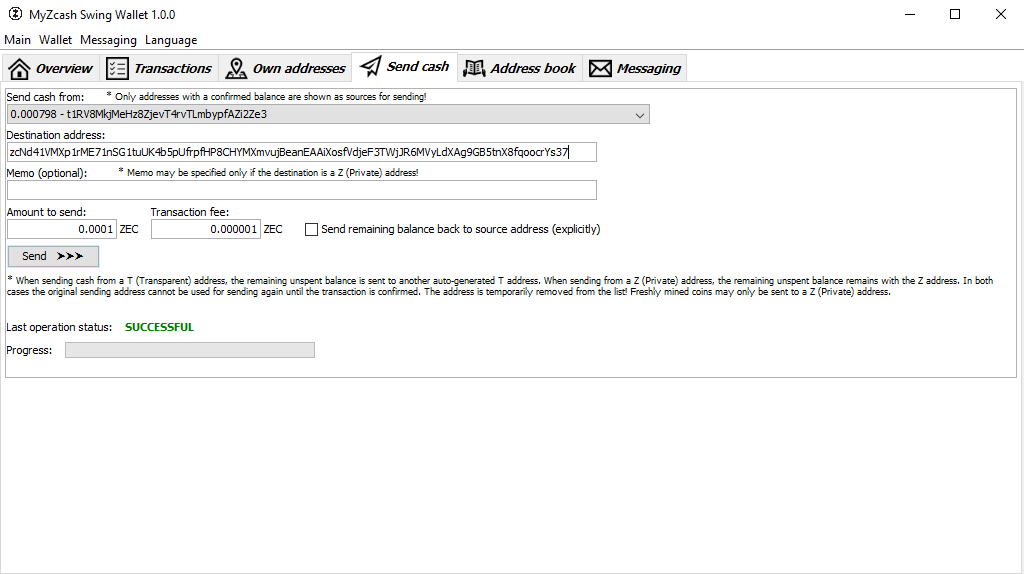
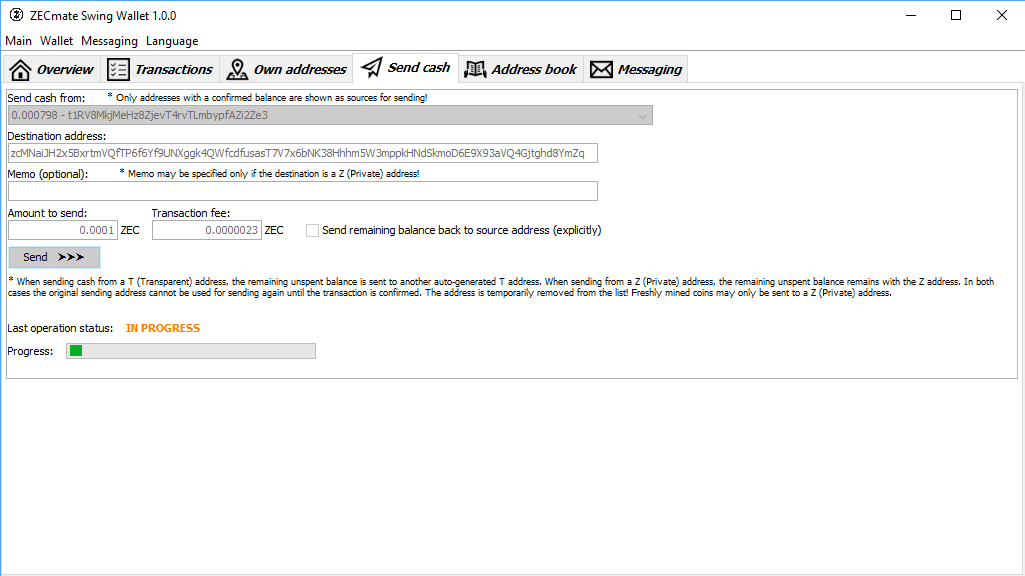
ZECmate

Changed region(s): [[0.0, 0.0, 1.0, 0.6516], [0.9688, 0.0, 1.0, 0.0296], [0.0, 0.9774, 0.0312, 1.0]]

diff --git a/index.html b/index.html
@@ -7,7 +7,7 @@
   <link href="https://fonts.googleapis.com/css?family=Heebo:100,300,400,500,700" rel="stylesheet">
   <link rel="stylesheet" href="css/tachyons.min.css">
   <link rel="stylesheet" href="css/style.css?v=3">
-  <title>MyZcash Swing Wallet — maintained by Zel Technologies GmbH</title>
+  <title>ZECmate Swing Wallet — maintained by Zel Technologies GmbH</title>
 
   <!-- Global site tag (gtag.js) - Google Analytics -->
   <script async src="https://www.googletagmanager.com/gtag/js?id=UA-120023197-2"></script>
@@ -26,7 +26,7 @@
 
   <header class="fixed bg-black-60 w-100 center tc pa4 dn db-ns z-1">
     <a href="/" class="link v-mid mr3 mr6-l absolute top-1 left-2 mt2 z-2 dn db-l">
-      <img src="img/zcash-logo.png" style="height:45px">
+      <img src="img/zecmate-logo.png" style="height:45px">
     </a>
     <a href="/#about" class="link dib f7 f6-l mr3 mr4-l white-50 hover-white-90 ttu tracked-mega fw3">About</a>
     <a href="/downloads" class="link dib f7 f6-l mr3 mr4-l white-50 hover-white-90 ttu tracked-mega fw3">Downloads</a>
@@ -35,8 +35,8 @@
 
   <div class="vh-100 w-100 white">
     <div class="w-100 pt6 pa3 mw6 center tc">
-      <img src="img/zcash-logo.png" class="w-60">
-      <h3 class="fw3 f5 tracked-mega ttu white-70 mt4">MyZcash Swing Wallet</h3>
+      <img src="img/zecmate-logo.png" class="w-60">
+      <h3 class="fw3 f5 tracked-mega ttu white-70 mt4">ZECmate Swing Wallet</h3>
     </div>
 
     <!-- Windows -->
@@ -72,8 +72,8 @@
           <img class="shadow-5" src="img/mainscreen.png" alt="Zcash Swing Wallet">
         </div>
         <div class="w-100 pa5 pt0 pb2 pa3-l pr4-l">
-          <h3 class="f3 fw5 mb1">MyZcash Swing Wallet</h3>
-          <p class="white-70 fw3 f4 measure">MyZcash Swing Wallet is a full node wallet for <a href="https://z.cash" class="mylink">Zcash</a> cryptocurrency. Zcash Swing Wallet is a port of HoriZEN Swing wallet offering friendly UI
+          <h3 class="f3 fw5 mb1">ZECmate Swing Wallet</h3>
+          <p class="white-70 fw3 f4 measure">ZECmate Swing Wallet is a full node wallet for <a href="https://z.cash" class="mylink">Zcash</a> cryptocurrency. Zcash Swing Wallet is a port of HoriZEN Swing wallet offering friendly UI
             to Zcash users accross all platforms - Windows, Linux and macOS. Speak and Transact freely with the best privacy technology that exists!
           </p>
         </div>
@@ -82,7 +82,7 @@
       <div class="flex-none flex-l items-center justify-between mt0 mt5-l">
         <div class="w-100 w-80-l pa5 pt0 pb0 pa3-l pl6-l">
           <h3 class="f3 fw5">100% opensource signed software</h3>
-          <p class="white-70 fw3 f4 measure"> MyZcash Swing wallet is fully opensourced software and can be  easily built following the instructions on <a class="mylink" href="https://github.com/zcashwallets/zcash-swing-wallet">GitHub</a>. Each of our releases is properly signed by Zel Technologies for every platform to give users the assurance of software quality.
+          <p class="white-70 fw3 f4 measure"> ZECmate Swing wallet is fully opensourced software and can be  easily built following the instructions on <a class="mylink" href="https://github.com/zcashwallets/zcash-swing-wallet">GitHub</a>. Each of our releases is properly signed by Zel Technologies for every platform to give users the assurance of software quality.
           Furthermore we are garantying the updates and support for each new Zcash release to give users the best experience while interacting with Zcash blockchain.</p>
         </div>
         <div class="w-80 pa4 v-mid dn db-l pr5-l">

diff --git a/downloads/index.html b/downloads/index.html
@@ -7,7 +7,7 @@
   <link href="https://fonts.googleapis.com/css?family=Heebo:100,300,400,500,700" rel="stylesheet">
   <link rel="stylesheet" href="../css/tachyons.min.css">
   <link rel="stylesheet" href="../css/style.css?v=3">
-  <title>MyZcash Swing Wallet — Downloads</title>
+  <title>ZECmate Swing Wallet — Downloads</title>
 
   <!-- Global site tag (gtag.js) - Google Analytics -->
   <script async src="https://www.googletagmanager.com/gtag/js?id=UA-120023197-2"></script>
@@ -24,7 +24,7 @@
 
   <header class="fixed bg-black-60 w-100 center tc pa4 dn db-ns z-1">
     <a href="/" class="link v-mid mr3 mr6-l absolute top-1 left-2 mt2 z-2 dn db-l">
-      <img src="../img/zcash-logo.png" style="height:45px">
+      <img src="../img/zecmate-logo.png" style="height:45px">
     </a>
     <a href="/#about" class="link dib f7 f6-l mr3 mr4-l white-50 hover-white-90 ttu tracked-mega fw3">About</a>
     <a href="/downloads" class="link dib f7 f6-l mr3 mr4-l white ttu tracked-mega fw3">Downloads</a>
@@ -111,7 +111,7 @@
             calculated SHA256</a>
           <p>Info</p>
           <ul class="list white-70 fw2 pl0">
-            <li class="mb2">Version 1.0.0. Zel Foundation took over the development of MyZcash Swing Wallet!</li>
+            <li class="mb2">Version 1.0.0. Zel Foundation took over the development of ZECmate Swing Wallet!</li>
           </ul>
           <p>Features</p>
           <ul class="list white-70 fw2 pl0">
@@ -144,14 +144,14 @@
       <!-- Modal content -->
       <div class="modal-content">
         <span onclick="closeModal()" class="close">&times;</span>
-        <h4 class="fw3 f5 white-100 mt4">All MyZcash Swing Wallet releases are signed by Zel Technologies
+        <h4 class="fw3 f5 white-100 mt4">All ZECmate Swing Wallet releases are signed by Zel Technologies
           GmbH. Furthermore we provide calculated SHA256 hashes of our releases</h4>
 
-        <h4 class="fw2 f6 tracked white-100 mt4"> MyZcash.dmg</h6>
+        <h4 class="fw2 f6 tracked white-100 mt4"> ZECmate.dmg</h6>
         <h4 class="shahash fw2 ttu tracked f7 mb0 white-100">8cddf0f937bbe319d7058221cf63ef87fc46a01f9a72451eac191f526d81aeeb</h4>
-        <h4 class="fw2 f6 tracked white-100 mt4"> MyZcash.exe</h4>
+        <h4 class="fw2 f6 tracked white-100 mt4"> ZECmate.exe</h4>
         <h4 class="shahash fw2 ttu tracked f7 mb0 white-100">8cddf0f937bbe319d7058221cf63ef87fc46a01f9a72451eac191f526d81aeeb</h4>
-        <h4 class="fw2 f6 tracked white-100 mt4"> MyZcash.deb</h4>
+        <h4 class="fw2 f6 tracked white-100 mt4"> ZECmate.deb</h4>
         <h4 class="shahash fw2 ttu tracked f7 mb0 white-100">8cddf0f937bbe319d7058221cf63ef87fc46a01f9a72451eac191f526d81aeeb</h4>
 
       </div>

diff --git a/roadmap/index.html b/roadmap/index.html
@@ -7,7 +7,7 @@
   <link href="https://fonts.googleapis.com/css?family=Heebo:100,300,400,500,700" rel="stylesheet">
   <link rel="stylesheet" href="../css/tachyons.min.css">
   <link rel="stylesheet" href="../css/style.css?v=3">
-  <title>MyZcash Swing Wallet — Roadmap</title>
+  <title>ZECmate Swing Wallet — Roadmap</title>
 
   <!-- Global site tag (gtag.js) - Google Analytics -->
   <script async src="https://www.googletagmanager.com/gtag/js?id=UA-120023197-2"></script>
@@ -25,7 +25,7 @@
 
   <header class="fixed bg-black-60 w-100 center tc pa4 dn db-ns z-1">
     <a href="/" class="link v-mid mr3 mr6-l absolute top-1 left-2 mt2 z-2 dn db-l">
-      <img src="../img/zcash-logo.png" style="height:45px">
+      <img src="../img/zecmate-logo.png" style="height:45px">
     </a>
     <a href="/#about" class="link dib f7 f6-l mr3 mr4-l white-50 hover-white-90 ttu tracked-mega fw3">About</a>
     <a href="/downloads" class="link dib f7 f6-l mr3 mr4-l white-50 hover-white-90 ttu tracked-mega fw3">Downloads</a>
@@ -49,7 +49,7 @@
           <div class="timeline__entry tr w-40 ml3 mr6 mb4 fl">
             <h4 class="fw2 ttu tracked f7 mb0 white-50">October 2018
               </h3>
-              <h5 class="f4 fw4 mb0 mt1">MyZcash Swing Wallet 1.0.0</h5>
+              <h5 class="f4 fw4 mb0 mt1">ZECmate Swing Wallet 1.0.0</h5>
           </div>
 
           <div class="timeline__entry tl w-40 mr3 ml6 mb4 fr">

diff --git a/README.md b/README.md
@@ -1,2 +1,2 @@
-# swing.myzcash.org
-Website is dedicated to Zcash Swing Wallet.
+# swing.zecmate.com
+Website is dedicated to ZECmate Swing Wallet a full node GUI wallet for Zcash.
